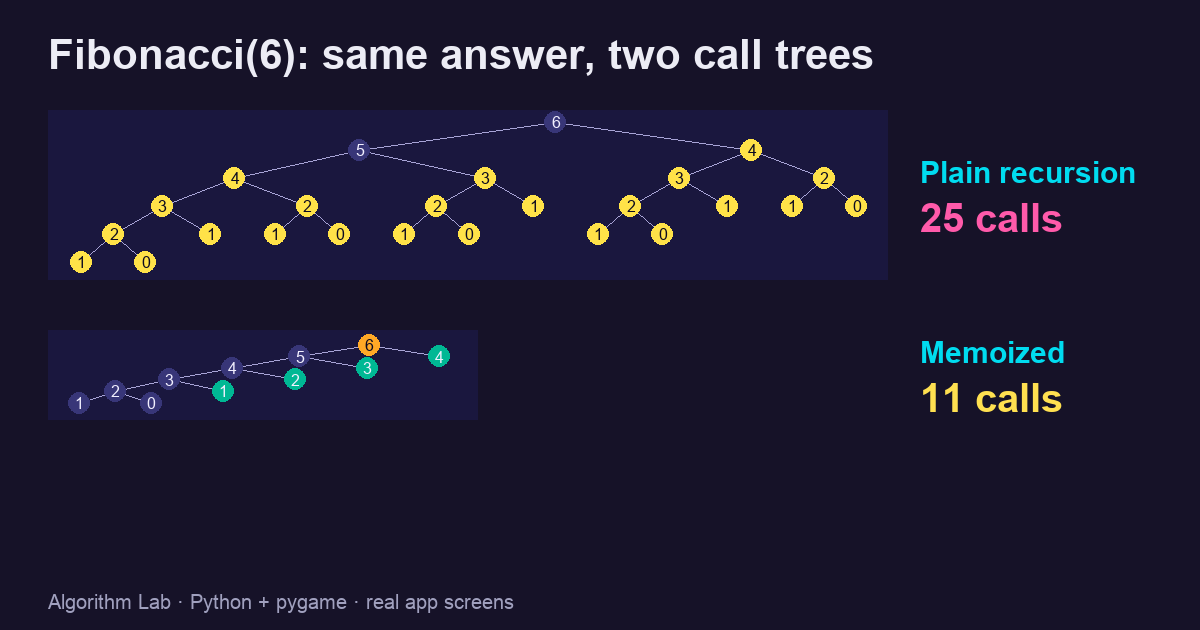
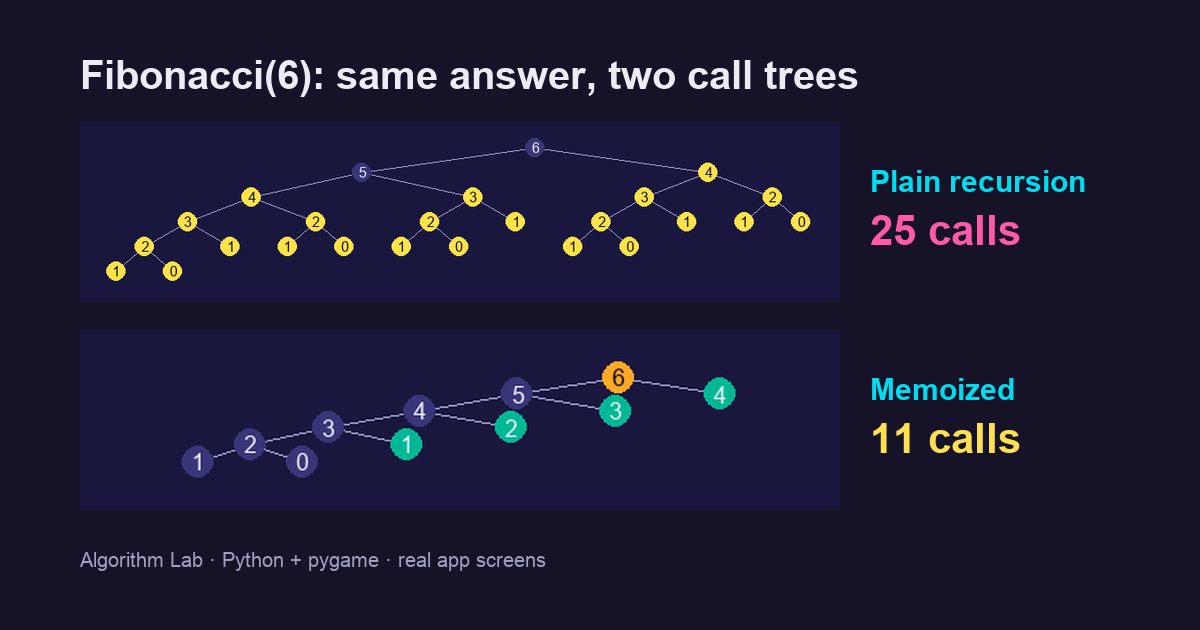
fix: redo KV cache and DP covers inside the 16:9 crop safe area

diff --git a/assets/code/algorithm_tips/charts.py b/assets/code/algorithm_tips/charts.py
@@ -48,8 +48,12 @@ def kv_fig(w, h, title=None):
         ax.annotate(f"{r[2] / r[1]:.1f}x", (r[0], r[2]), textcoords="offset points", xytext=(-6, 8), ha="right", color=B)
     ax.set_xlabel("new tokens generated"); ax.set_ylabel("seconds"); ax.set_xticks(x); ax.legend(loc="upper left")
     ax.set_title("Qwen2.5-0.5B-Instruct, greedy, CPU float32: identical output tokens in every run", color=MUTED, fontsize=12)
-    if title: fig.suptitle(title, fontsize=22, fontweight="bold", x=0.04, ha="left", y=0.97)
-    fig.tight_layout(rect=(0, 0, 1, 0.9 if title else 1))
+    if title:  # cover: keep everything 80 px from the sides and 48 px from top/bottom (the site crops 16:9)
+        fig.suptitle(title, fontsize=22, fontweight="bold", x=80 / 1200, ha="left", y=1 - 56 / 630, va="top")
+        ax.margins(x=0.08)
+        fig.subplots_adjust(left=150 / 1200, right=1105 / 1200, bottom=1 - 515 / 630, top=1 - 150 / 630)
+    else:
+        fig.tight_layout()
     return fig
 cover(kv_fig(11, 5), "img/kv_chart.png")
 cover(kv_fig(12, 6.3, "KV cache: the same 256 tokens, 7.5 s instead of 34 s"), "img/kv_cover.png")
